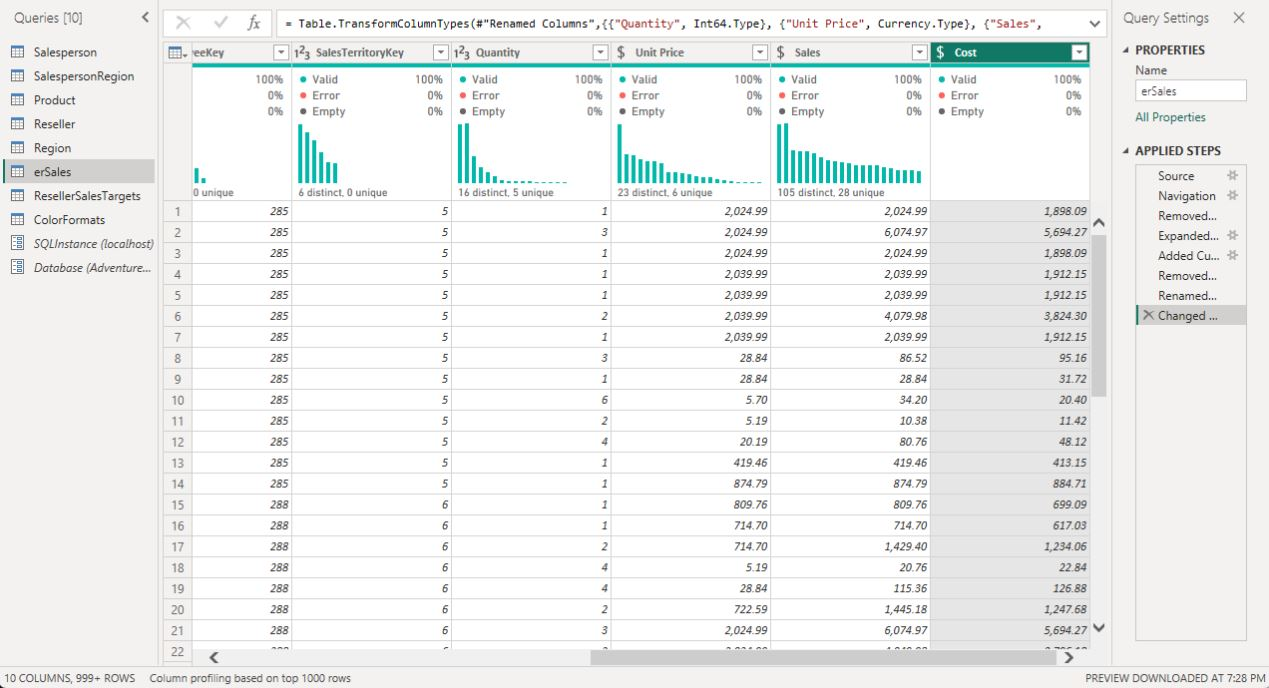
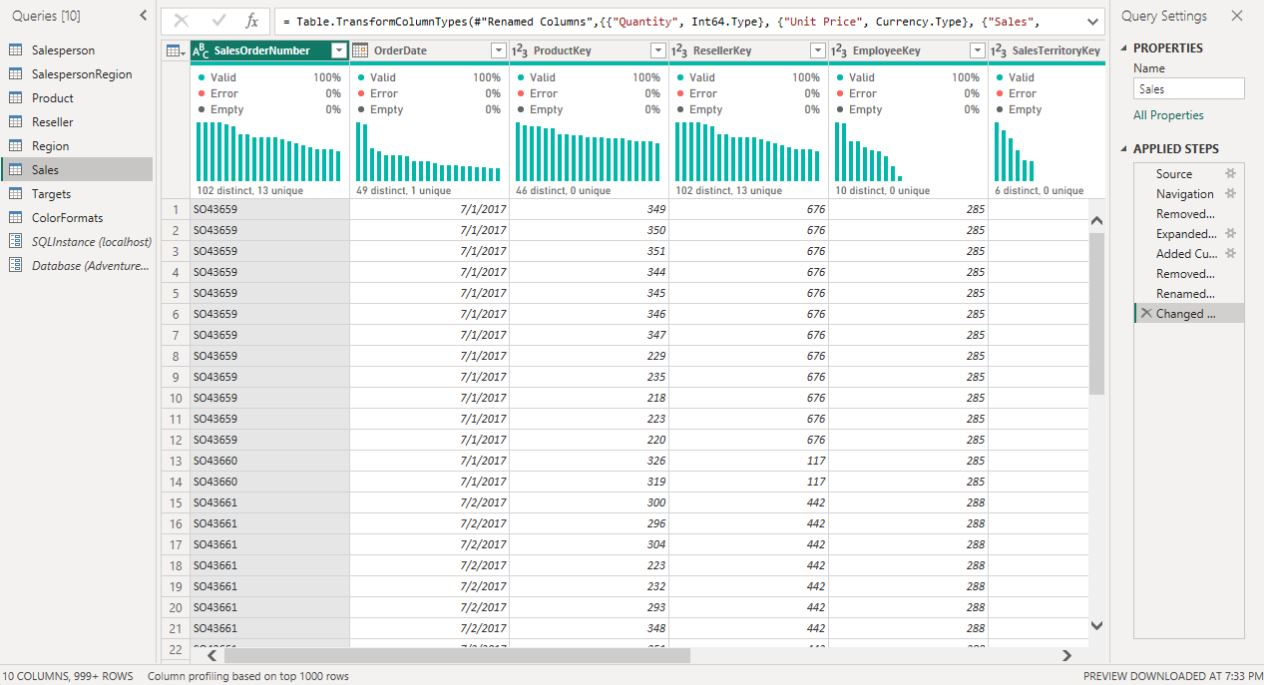
PL-300

Changed region(s): [[0.0, 0.0, 1.0, 1.0], [0.8639, 0.0, 0.9565, 0.0307], [0.0, 0.0, 0.0617, 0.0307]]

diff --git a/PL-300T00-A_Diseño_y_administración_de_soluciones_de_análisis_mediante_Power_BI/PL-300_Lab/Lab_2-2_Clean_transform_and_load_data_in_Power_BI/PL-300_Lab_2-2_Clean_transform_and_load_data_in_Power_BI.md b/PL-300T00-A_Diseño_y_administración_de_soluciones_de_análisis_mediante_Power_BI/PL-300_Lab/Lab_2-2_Clean_transform_and_load_data_in_Power_BI/PL-300_Lab_2-2_Clean_transform_and_load_data_in_Power_BI.md
@@ -422,6 +422,10 @@ In this task, you'll configure the **Targets** query.
 
 3. Right-click either of the select column headers, and then in the context menu, select **Unpivot Other Columns**.
 
+![903_01_Unpivot_Other_Columns_0](images/903_01_Unpivot_Other_Columns_0.JPG)
+
+<br>
+
 4. Notice that the column names now appear in the **Attribute** column, and the values appear in the **Value** column.
 
 5. Apply a filter to the **Value** column to remove hyphen (-) values.
@@ -433,11 +437,19 @@ In this task, you'll configure the **Targets** query.
    - **Attribute** to **MonthNumber** (there's no space)
    - **Value** to **Target**
 
+![906_01_rename_colums_0](images/906_01_rename_colums_0.JPG)
+
+<br>
+
 7. To prepare the **MonthNumber** column values, right-click the **MonthNumber** column header, and then select **Replace Values**.
 
 > You’ll now apply transformations to produce a date column. The date will be derived from the **Year** and **MonthNumber** columns. You’ll create the column by using the **Columns From Examples** feature.
 
 8. In the **Replace Values** window, in the **Value To Find** box, enter **M** and leave the **Replace with** empty.
+
+![908_01_Replace_Values_0](images/908_01_Replace_Values_0.JPG)
+
+<br>
 
 9. Modify the **MonthNumber** column data type to **Whole Number**.
 
@@ -457,6 +469,10 @@ In this task, you'll configure the **Targets** query.
 
 > The feature has accurately predicted that you're combining values from the **Year** and **MonthNumber** columns.
 
+![913_01_add_column_0](images/913_01_add_column_0.JPG)
+
+<br>
+
 14. Notice also the formula presented above the query grid.
 
 ![914_02-transform-data-power-bi_image60](images/914_02-transform-data-power-bi_image60.png)
@@ -475,6 +491,10 @@ In this task, you'll configure the **Targets** query.
    - **Target** as fixed decimal number
    - **TargetMonth** as date
 
+![917_01_rename_columns_0](images/917_01_rename_columns_0.JPG)
+
+<br>
+
 18. To multiply the **Target** values by 1000, select the **Target** column header, and then on the **Transform** ribbon tab, from inside the **Number Column** group, select **Standard**, and then select **Multiply**.
 
 > You may recall that the target values were stored as thousands.
@@ -486,6 +506,12 @@ In this task, you'll configure the **Targets** query.
 19. In the **Multiply** window, in the **Value** box, enter **1000**, and select **OK**.
 
 **In the status bar, verify that the query has 3 columns and 809 rows.**
+
+![919_01_Multiply_0](images/919_01_Multiply_0.JPG)
+
+<br>
+
+![919_02_status_bar_0](images/919_02_status_bar_0.JPG)
 
 <br>
 
